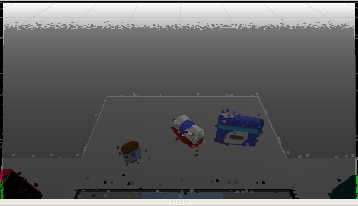
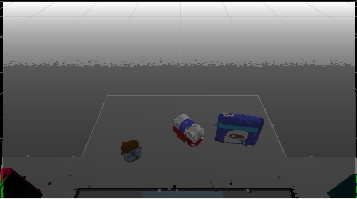
Add notes showing the update noise filter values

diff --git a/writeup_perception.md b/writeup_perception.md
@@ -44,7 +44,11 @@ Input PCL cloud.
 
 Noise filter applied immediatly applied after ros to pcl conversion with the default parameters.
 
-![noise_filter1](https://github.com/leberhard10/RoboND-Perception-Project/blob/master/images/pcl_cloud.PNG)
+![noise_filter_d](https://github.com/leberhard10/RoboND-Perception-Project/blob/master/images/noise_filter_defaults.PNG)
+
+Updated the mean points and the threshold for a cleaner image.
+
+![noise_filter_1](https://github.com/leberhard10/RoboND-Perception-Project/blob/master/images/noise_filter_1.PNG)
 
 
 
